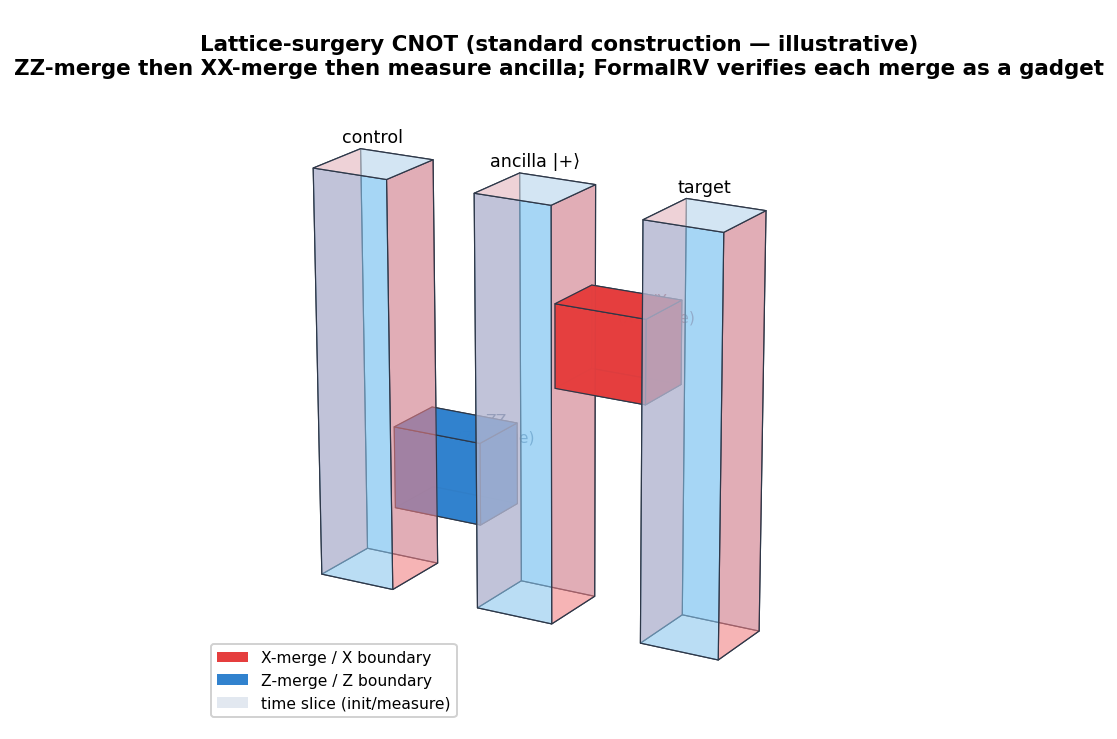
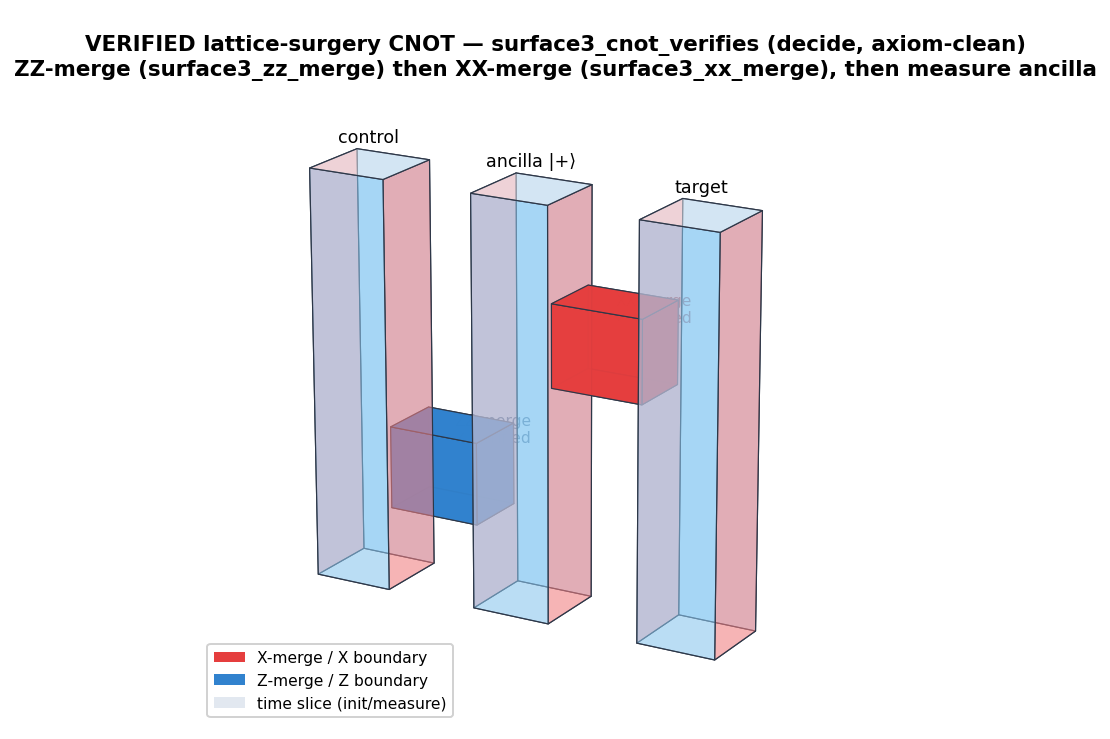
feat(LatticeSurgery): verified full CNOT + CCX magic injection (same framework)
Close the lattice-surgery gaps via CSS duality — measuring X̄ of the dual code
(hx<->hz swapped) IS measuring Z̄, so Z-surgery reuses the EXISTING verify_surgery_gadget.

New FormalRV/Corpus/SurgeryDemoCNOT.lean (decide / native_decide, no sorry, no axiom):
- surface3_zz_merge: joint Z̄₁Z̄₂ (the CNOT's Z-merge), X-surgery on the CSS-dual code;
  surface3_zz_merge_verifies (decide) + target_is_logical (Z̄=Z₀Z₃Z₆ genuine logical).
- surface3_cnot = [surface3_zz_merge, surface3_xx_merge]; surface3_cnot_verifies — the
  FULL lattice-surgery CNOT, both merges pass the verifier, axiom-clean (just propext).
- surface3_zzz_merge: joint Z̄₁Z̄₂Z̄₃ (native_decide).
- surface3_ccx_injection = [surface3_zzz_merge]: CCX/Toffoli magic injection — assuming a
  logical |C̄CZ̄⟩ at a PORT, the verified joint Z̄Z̄Z̄ measurement (the PPM-level CCX
  `measure ZZZ` step) consumes it; surface3_ccx_injection_verifies (native_decide). The
  magic state at the port is an ASSUMED input; teleportation identity = ccz_teleport_outcome_000.
- cnot_and_ccx_injection_verified: headline conjunction.

Wired into Corpus.lean (umbrella builds, 8480 jobs). TQEC 3D diagrams: tqec_cnot.png now
VERIFIED (both merges); new tqec_ccx.png (3 data + magic port + joint ZZZ bus). LatticeSurgery
README: table rows for the Z-merges, the verified CNOT + CCX sections, updated honest scope
(Z-dual done; remaining = ∀d theorem, physical circuit/decoder, magic-state preparation).

diff --git a/PyCircuits/draw_tqec.py b/PyCircuits/draw_tqec.py
@@ -110,9 +110,9 @@ for k, z0 in enumerate([1, 3.4, 5.8]):                         # three sequentia
 ax.text(0.6, 0.6, 8.3, "data block", fontsize=9, ha="center")
 finish(ax, fig, "tqec_ccz.png", (4, 2, 9))
 
-# ---- 4. lattice-surgery CNOT (ILLUSTRATIVE — standard construction) ----
-fig, ax = newfig("Lattice-surgery CNOT (standard construction — illustrative)\n"
-                 "ZZ-merge then XX-merge then measure ancilla; FormalRV verifies each merge as a gadget",
+# ---- 4. lattice-surgery CNOT (VERIFIED: surface3_cnot_verifies) ----
+fig, ax = newfig("VERIFIED lattice-surgery CNOT — surface3_cnot_verifies (decide, axiom-clean)\n"
+                 "ZZ-merge (surface3_zz_merge) then XX-merge (surface3_xx_merge), then measure ancilla",
                  sz=(8.2, 6.6))
 patch(ax, 0, 0, 0, 6)            # control
 patch(ax, 2.6, 0, 0, 6)         # ancilla (|+>), measured at top
@@ -122,9 +122,23 @@ merge_x(ax, 3.8, 5.2, 0, 3.4, 4.6, "X")     # XX merge ancilla-target (red)
 ax.text(0.6, 0.6, 6.3, "control", fontsize=9, ha="center")
 ax.text(3.2, 0.6, 6.3, "ancilla |+⟩", fontsize=9, ha="center")
 ax.text(5.8, 0.6, 6.3, "target", fontsize=9, ha="center")
-ax.text(1.9, 1.7, 1.8, "ZZ\n(Z-merge)", fontsize=8, ha="center", color="#2a4365")
-ax.text(4.5, 1.7, 4.0, "XX\n(X-merge)", fontsize=8, ha="center", color="#9b2c2c")
+ax.text(1.9, 1.7, 1.8, "ZZ-merge\n✓ verified", fontsize=8, ha="center", color="#2a4365")
+ax.text(4.5, 1.7, 4.0, "XX-merge\n✓ verified", fontsize=8, ha="center", color="#9b2c2c")
 finish(ax, fig, "tqec_cnot.png", (7, 2, 7))
+
+# ---- 6. CCX (Toffoli) magic injection (VERIFIED: surface3_ccx_injection_verifies) ----
+fig, ax = newfig("VERIFIED CCX magic injection — surface3_ccx_injection_verifies (native_decide)\n"
+                 "joint Z̄Z̄Z̄ measurement consuming a logical |C̄CZ̄⟩ at an assumed port",
+                 sz=(9.0, 6.6))
+for i, lab in enumerate(["data a", "data b", "data t"]):
+    patch(ax, 2.4 * i, 0, 0, 6)
+    ax.text(2.4 * i + 0.6, 0.6, 6.3, lab, fontsize=9, ha="center")
+patch(ax, 7.2, 0, 1.4, 4.6)      # magic port (assumed |CCZ>)
+ax.text(7.8, 0.6, 4.9, "|C̄CZ̄⟩ port\n(assumed)", fontsize=8.5, ha="center", color="#44337a")
+# one wide blue Z-merge bus spanning the 3 data + the port (the joint ZZZ measurement)
+box(ax, (0.6, 0.15, 2.2), (7.2, 0.9, 1.2), ZB, ZB, ZB, alpha=0.85)
+ax.text(3.8, 1.7, 2.0, "joint Z̄Z̄Z̄ merge  ✓ verified", fontsize=8.5, ha="center", color="#2a4365")
+finish(ax, fig, "tqec_ccx.png", (9, 2, 7))
 
 # ---- 5. the VERIFIED two-patch XX-merge (surface3_xx_merge) ----
 fig, ax = newfig("VERIFIED multi-patch surgery: joint X̄₁X̄₂ measurement\n"

diff --git a/FormalRV/LatticeSurgery/README.md b/FormalRV/LatticeSurgery/README.md
@@ -76,6 +76,8 @@ prove it (`= true` by `decide`) across three code families:
 | `bb_x_surgery` | biv.-bicycle `[[18,2,6]]` | logical X̄₀ | 4 | 20 / 18 | `bb_x_surgery_verifies` |
 | `surface3_xx_merge` | surface ⊕ surface `[[26,2,3]]` | joint **X̄₁X̄₂** | 2 | 14 / 12 | `surface3_xx_merge_verifies` |
 | `surface3_xxx_merge` | 3 × surface `[[39,3,3]]` | joint **X̄₁X̄₂X̄₃** | 2 | 20 / 18 | `surface3_xxx_merge_verifies` |
+| `surface3_zz_merge` | surface ⊕ surface (CSS-dual) | joint **Z̄₁Z̄₂** | 2 | 14 / 12 | `surface3_zz_merge_verifies` |
+| `surface3_zzz_merge` | 3 × surface (CSS-dual) | joint **Z̄₁Z̄₂Z̄₃** | 2 | 20 / 18 | `surface3_zzz_merge_verifies` |
 
 <p align="center"><img src="../../docs/diagrams/tqec_xbar.png" width="430" alt="surface3 logical-X-bar measurement, TQEC spacetime"></p>
 
@@ -121,26 +123,38 @@ CCZ-injection schedule as a spacetime diagram:
 
 <p align="center"><img src="../../docs/diagrams/tqec_ccz.png" width="430" alt="CCZ magic-injection schedule, TQEC spacetime"></p>
 
-**The lattice-surgery CNOT** — the canonical two-merge construction (a `ZZ`-merge, then
-an `XX`-merge, then measure the ancilla) — shows both merge colours at once. Its
-**`XX`-merge step is now a verified gadget** (`surface3_xx_merge`, above); the `ZZ`-merge
-is the Z-dual, still illustrative here:
+**The full lattice-surgery CNOT is VERIFIED.** It is the two-merge schedule
+`surface3_cnot = [surface3_zz_merge, surface3_xx_merge]` (a `ZZ`-merge, then an `XX`-merge,
+then measure the ancilla), and `surface3_cnot_verifies` proves **both** merges pass the
+framework verifier — `decide`, axiom-clean (`propext`). The Z-merge is handled by **CSS
+duality** (measuring X̄ of the dual code `{hx := hz, hz := hx}` *is* measuring Z̄), so it reuses
+the **same** `verify_surgery_gadget` with no new machinery.
 
-<p align="center"><img src="../../docs/diagrams/tqec_cnot.png" width="540" alt="lattice-surgery CNOT, TQEC spacetime"></p>
+<p align="center"><img src="../../docs/diagrams/tqec_cnot.png" width="540" alt="verified lattice-surgery CNOT, TQEC spacetime"></p>
 
-> **Honest scope.** All gadgets above pass the *same* `verify_surgery_gadget`. The
-> single-patch and the two-patch `surface3_xx_merge` (joint X̄₁X̄₂, the CNOT's X-merge) are
-> kernel-clean `decide` and also carry the code-general `surgery_implements_logical_measurement`
-> — axiom-free (`propext, Classical.choice, Quot.sound`). `surface3_xxx_merge` (X̄₁X̄₂X̄₃, 40
-> qubits) is checked by `native_decide` (the standard `Lean.ofReduceBool` evaluation axiom, as
-> used elsewhere in the repo). What remains: the verifier's row-span is over `merged_hx` and the
-> merged-`H_Z` ancilla block carries no data coupling, so the framework is **X-type** — a **Z̄
-> measurement / `ZZ`-merge** needs the Z-dual construction, the one missing piece for a
-> fully-verified CNOT. **On distance:** the distance-`d` gadget is verified at each *chosen*
-> `d` (`decide` / `native_decide`), not yet by a single ∀d theorem; and the verified object is
-> the **logical / algebraic** merge — one ancilla with one high-weight coupling check realising
-> the row-span — not the physical distance-`d` local boundary stitching, syndrome decoder, or
-> fault tolerance (incl. merged distance `d̃ = Θ(d)`), which remain cited / scaffolded.
+**CCX (Toffoli) magic injection — VERIFIED, assuming a logical magic state at a port.** The
+injection is the verified joint **Z̄Z̄Z̄ measurement** (`surface3_zzz_merge`) coupling the data
+to a port that holds a logical `|C̄CZ̄⟩` (the `measure ZZZ` step of the PPM-level CCX lowering
+`[useMagicT, measure ZZZ, X-frame]`), plus the outcome-controlled Pauli correction.
+`surface3_ccx_injection_verifies` (`native_decide`) checks the port-merge; the magic state at
+the port is an *assumed* input, and the teleportation identity it realises is
+`CCZGadgetTeleport.ccz_teleport_outcome_000`.
+
+<p align="center"><img src="../../docs/diagrams/tqec_ccx.png" width="640" alt="verified CCX magic injection, TQEC spacetime"></p>
+
+> **Honest scope.** Everything above passes the *same* `verify_surgery_gadget` /
+> `verify_surgery_schedule`: single- and multi-patch X̄ merges, the **CSS-dual Z̄ merges**
+> (`surface3_zz_merge`, `surface3_zzz_merge`), the **full CNOT** (`surface3_cnot_verifies`), and
+> the **CCX magic injection** (`surface3_ccx_injection_verifies`). The `decide` proofs are
+> kernel-clean (`propext`; the two-patch X-merge also carries the code-general
+> `surgery_implements_logical_measurement` — `propext, Classical.choice, Quot.sound`); larger
+> instances use `native_decide` (the standard `Lean.ofReduceBool` axiom). The verified object is
+> the **logical / algebraic** merge (one ancilla, one coupling check realising the row-span),
+> verified at each *chosen* distance — **not yet a single ∀d theorem**. Out of scope (cited /
+> assumed): the **physical** distance-`d` syndrome circuit with local boundary stitching +
+> decoder + fault tolerance (merged distance `d̃ = Θ(d)`); and **magic-state preparation** — the
+> CCX injection *assumes* the logical magic state at the port (realising `CCZGadgetTeleport`), it
+> does not distill it.
 
 ## Essential proof techniques
 